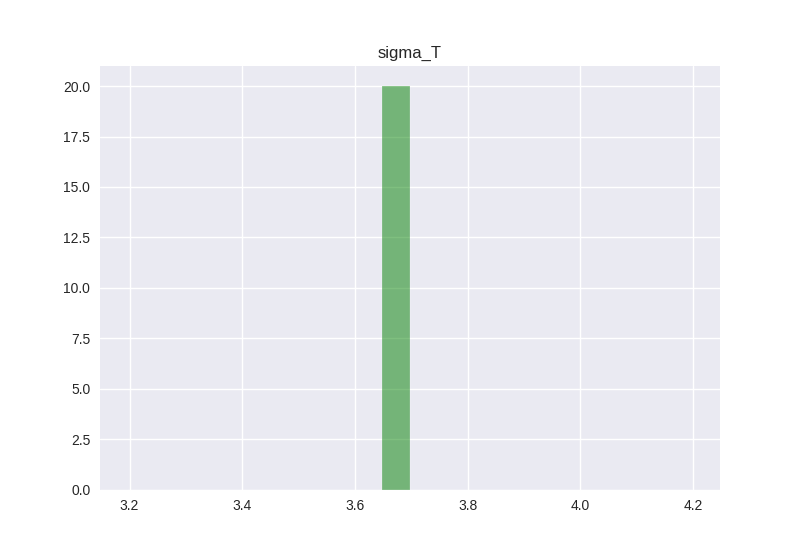
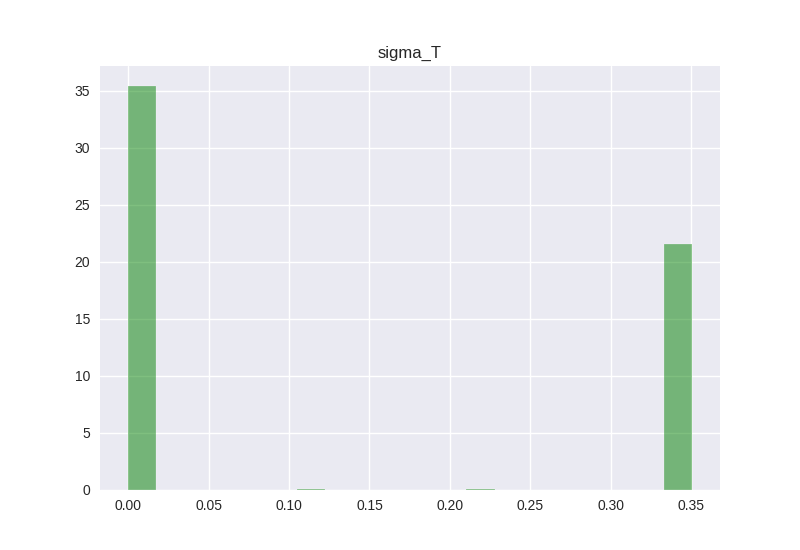
Fixed errors

diff --git a/fortran/coupled_model.py b/fortran/coupled_model.py
@@ -58,28 +58,28 @@ class CoupledModel:
 		#self.mod_time = np.array(forcing['year'])
 		#self.forcingtotal = np.array(forcing_total.forcing_total(forcing=forcing, alpha_doeclim=self.asc, l_project=False, begyear=self.mod_time[0], endyear=np.max(self.mod_time)))
 
-		self.alpha = parameter('alpha')
-		self.alpha.value = values[self.alpha.name]
-		self.Teq = parameter('Teq')
-		self.Teq.value = values[self.Teq.name]
-		self.S0 = parameter('S0')
-		self.S0.value = values[self.S0.name]
-		self.rho = parameter('rho')
-		self.rho.value = values[self.rho.name]
-		self.sigma_ar = parameter('sigma_ar')
-		self.sigma_ar.value = values[self.sigma_ar.name]
-		self.climate_sensitivity = parameter('climate_sensitivity')
-		self.climate_sensitivity.value = values[self.climate_sensitivity.name]
-		self.ocean_vertical_diffusivity = parameter('ocean_vertical_diffusivity')
-		self.ocean_vertical_diffusivity.value = values[self.ocean_vertical_diffusivity.name]
-		self.aerosol_scaling = parameter('aerosol_scaling')
-		self.aerosol_scaling.value = values[self.aerosol_scaling.name]
-		self.T_0 = parameter('T_0')
-		self.T_0.value = values[self.T_0.name]
-		self.sigma_T = parameter('sigma_T')
-		self.sigma_T.value = values[self.sigma_T.name]
-		self.rho_T = parameter('rho_T')
-		self.rho_T.value = values[self.rho_T.name]
+		#self.alpha = parameter('alpha')
+		self.alpha = values[0]
+		#self.Teq = parameter('Teq')
+		self.Teq = values[1]
+		#self.S0 = parameter('S0')
+		self.S0 = values[2]
+		#self.rho = parameter('rho')
+		self.rho = values[3]
+		#self.sigma_ar = parameter('sigma_ar')
+		self.sigma_ar = values[4]
+		#self.climate_sensitivity = parameter('climate_sensitivity')
+		self.climate_sensitivity = values[5]
+		#self.ocean_vertical_diffusivity = parameter('ocean_vertical_diffusivity')
+		self.ocean_vertical_diffusivity = values[6]
+		#self.aerosol_scaling = parameter('aerosol_scaling')
+		self.aerosol_scaling = values[7]
+		#self.T_0 = parameter('T_0')
+		self.T_0 = values[8]
+		#self.sigma_T = parameter('sigma_T')
+		self.sigma_T = values[9]
+		#self.rho_T = parameter('rho_T')
+		self.rho_T = values[10]
 		self.values = values
 		self.stepsizes = {'alpha': .01, 'Teq': .05, 'S0': 5, 'rho': .001, 'sigma_ar': .1, 'climate_sensitivity': 0.16, 'ocean_vertical_diffusivity': 0.17, 'aerosol_scaling': 0.025, 'T_0': 0.03, 'sigma_T': 5e-4, 'rho_T': 0.007}
 		
@@ -100,17 +100,17 @@ class CoupledModel:
 		alpha, Teq, S0, rho, sigma_ar = (
 			theta[0], theta[1], theta[2], theta[3], theta[4])
 		log_prior = 0
-		if (self.alpha.value): log_prior += stats.uniform.logpdf(alpha, loc = 0, scale = 5) #lb and ub?
-		if (self.Teq.value): log_prior +=  stats.uniform.logpdf(Teq, loc=-3, scale = 4)
-		if (self.S0.value): log_prior +=  stats.norm.logpdf(S0, loc = self.sealevel[0], scale = self.sealevel_sigma[0])
-		if (self.rho.value): log_prior +=  stats.uniform.logpdf(rho, loc = 0, scale = 1)
-		if (self.sigma_ar.value): log_prior +=  stats.uniform.logpdf(sigma_ar, loc = 0, scale = 5)
-		if (self.climate_sensitivity.value): log_prior +=  stats.uniform.logpdf(theta[5], loc = 0.1, scale = 9.9)
-		if (self.ocean_vertical_diffusivity.value): log_prior +=  stats.uniform.logpdf(theta[6], loc = 0.1, scale = 3.9)
-		if (self.aerosol_scaling.value): log_prior +=  stats.uniform.logpdf(theta[7], loc = 0, scale = 2)
-		if (self.T_0.value): log_prior +=  stats.uniform.logpdf(theta[8], loc = -0.3, scale = 0.6)
-		if (self.sigma_T.value): log_prior +=  stats.uniform.logpdf(theta[9], loc = 0.05, scale = 5.05)
-		if (self.rho_T.value): log_prior +=  stats.uniform.logpdf(theta[10], loc =  0.0001, scale = 0.999)
+		if (self.alpha): log_prior += stats.uniform.logpdf(alpha, loc = 0, scale = 5) #lb and ub?
+		if (self.Teq): log_prior +=  stats.uniform.logpdf(Teq, loc=-3, scale = 4)
+		if (self.S0): log_prior +=  stats.norm.logpdf(S0, loc = self.sealevel[0], scale = self.sealevel_sigma[0])
+		if (self.rho): log_prior +=  stats.uniform.logpdf(rho, loc = 0, scale = 1)
+		if (self.sigma_ar): log_prior +=  stats.uniform.logpdf(sigma_ar, loc = 0, scale = 5)
+		if (self.climate_sensitivity): log_prior +=  stats.uniform.logpdf(theta[5], loc = 0.1, scale = 9.9)
+		if (self.ocean_vertical_diffusivity): log_prior +=  stats.uniform.logpdf(theta[6], loc = 0.1, scale = 3.9)
+		if (self.aerosol_scaling): log_prior +=  stats.uniform.logpdf(theta[7], loc = 0, scale = 2)
+		if (self.T_0): log_prior +=  stats.uniform.logpdf(theta[8], loc = -0.3, scale = 0.6)
+		if (self.sigma_T): log_prior +=  stats.uniform.logpdf(theta[9], loc = 0.05, scale = 5.05)
+		if (self.rho_T): log_prior +=  stats.uniform.logpdf(theta[10], loc =  0.0001, scale = 0.999)
 		#print(log_prior)
 		return log_prior
 
@@ -131,24 +131,24 @@ class CoupledModel:
 		resid = np.array([self.sealevel[i] - model[i] for i in range(len(model))])
 
 		sigma_obs = np.diag([i**2 for i in self.sealevel_sigma])
-		sigma_ar1 = self.build_ar1(rho, sigma_ar, N) if self.sigma_ar.value else []
+		sigma_ar1 = self.build_ar1(rho, sigma_ar, N) if self.sigma_ar else []
 
 		t_residual = self.dfTemperature - temperatures
 
-		sigma_ar1_T = self.build_ar1(theta[10], theta[9], N) if self.sigma_T.value else []
+		sigma_ar1_T = self.build_ar1(theta[10], theta[9], N) if self.sigma_T else []
 		sigma_ar1_T = np.multiply((np.transpose(sigma_ar1_T) + sigma_ar1_T), 1/2)
 		log_prior = self.prior(theta)
 		if np.isinf(log_prior): return -np.inf
 		
-		#cov = np.add(sigma_obs,sigma_ar1)
-		#cov = np.multiply((np.transpose(cov) + cov), 1/2)
-		cov = sigma_obs
+		cov = np.add(sigma_obs,sigma_ar1)
+		cov = np.multiply((np.transpose(cov) + cov), 1/2)
+		#cov = sigma_obs
 		log_likelihood = stats.multivariate_normal.logpdf(resid, mean = None, cov=cov)
 		
 		cov_T = np.multiply((np.transpose(sigma_ar1_T) + sigma_ar1_T), 1/2)
 
-		#log_likelihood_T = stats.multivariate_normal.logpdf(t_residual, mean=None, cov=cov_T)
-		log_posterior = log_likelihood + log_prior #+ log_likelihood_T
+		log_likelihood_T = stats.multivariate_normal.logpdf(t_residual, mean=None, cov=cov_T)
+		log_posterior = log_likelihood + log_prior + log_likelihood_T
 		return log_posterior
 
 	def update_mean(self, m, X):
@@ -172,23 +172,18 @@ class CoupledModel:
 		return 0.5*(cov + np.transpose(cov)), m1
 	
 	def chain(self, deltat, N=10000):
-		print(self.sealevel_sigma)
-		parameters = self.values.values()
-		parameters = list(filter(lambda a: a != 0, parameters))
-		self.num = len(parameters)
-		theta = parameters
+		theta = np.array(self.values)
 		print('Initial estimate for parameters -', theta)
 		temp_out, heatflux_mixed_out, heatflux_interior_out, gmsl_out = \
 		doeclim_gmsl(asc = theta[7], t2co_in = theta[5], kappa_in=theta[6], alphasl_in = theta[0], Teq = theta[1], SL0 = theta[2]) 
-		temp_out += self.T_0.value
+		temp_out += self.T_0
 
 		lp = self.logp(theta, deltat, temp_out, gmsl_out)
 		theta_best = theta
 		lp_max = lp
-		theta_new = [0.] * len(parameters)
+		theta_new = [0.] * len(theta)
 		accepts = 0
-		mcmc_chains = np.zeros((N, (len(parameters))))
-		step = []
+		mcmc_chains = np.zeros((N, (len(theta))))
 		step_values = list(self.stepsizes.values())
 		step = np.diag(step_values)
 		sd = 2.38**2 / len(theta)
@@ -198,17 +193,17 @@ class CoupledModel:
 		#Check if converged. If not keep running. 
 		print(N)
 		for i in (range(N)):
-			if i > 500: step = self.update_cov(mcmc_chains[:i], sd, len(parameters))
+			if i > 500: step = self.update_cov(mcmc_chains[:i], sd, len(theta))
 			theta_new = list(np.random.multivariate_normal(theta, step))
 			temp_out, heatflux_mixed_out, heatflux_interior_out, gmsl_out = \
 			doeclim_gmsl(asc = theta[7], t2co_in = theta[5], kappa_in=theta[6], alphasl_in = theta[0], Teq = theta[1], SL0 = theta[2]) 
 			temp_out += theta[8]
 			lp_new = self.logp(theta_new, deltat, temp_out, gmsl_out)
-			if np.isinf(lp_new): continue
+			if np.isinf(lp_new): 
+				continue
 			lq = lp_new - lp
 			
 			lr = np.log(np.random.uniform(0, 1))
-			print(lq)
 			#print(lr, lq)
 			if (lr < lq):
 				theta = theta_new
@@ -222,9 +217,11 @@ class CoupledModel:
 
 		return mcmc_chains,accepts/N*100
 
-values = {'alpha': 3.4, 'Teq': -0.5, 'S0': -100, 'rho': .5, \
-'sigma_ar': 3, 'climate_sensitivity': 3.1, 'ocean_vertical_diffusivity': 3.5, \
-'aerosol_scaling': 1.1, 'T_0': -0.06, 'sigma_T': 0.1, 'rho_T': 0.55}
+#values = {'alpha': 3.4, 'Teq': -0.5, 'S0': -100, 'rho': .5, \
+#'sigma_ar': 3, 'climate_sensitivity': 3.1, 'ocean_vertical_diffusivity': 3.5, \
+#'aerosol_scaling': 1.1, 'T_0': -0.06, 'sigma_T': 0.1, 'rho_T': 0.55}
+
+values = [3.4, -0.5, -100, .5, 3, 3.1, 3.5, 1.1, -0.06, 0.1, 0.55]
 
 CM = CoupledModel(values)
 
@@ -232,16 +229,16 @@ mcmc_chain,accept_rate = CM.chain(1, NUMBER)
 
 pamnames = ['alpha', 'Teq', 'S0', 'rho', 'sigma_ar', 'climate_sensitivity', 'ocean_vertical_diffusivity', 'aerosol_scaling', 'T_0', 'sigma_T', 'rho_T']
 
-for i in range(CM.num):
+for i in range(11):
 	fig, ax = plt.subplots(nrows=1, ncols=1 )  # create figure & 1 axis
-	ax.plot(mcmc_chain[int(NUMBER/2): ,i])
+	ax.plot(mcmc_chain[: ,i])
 	ax.set_title(pamnames[i])
 	fig.savefig('image/plot'+str(i+1)+'.png')   # save the figure to file
 	plt.close(fig)
 
-for i in range(CM.num):
+for i in range(11):
 	fig, ax = plt.subplots(nrows=1, ncols=1 )  # create figure & 1 axis
-	ax.hist(mcmc_chain[int(NUMBER/2): ,i], density = True, facecolor='green', alpha=0.5, bins = 20, edgecolor = 'white')
+	ax.hist(mcmc_chain[: ,i], density = True, facecolor='green', alpha=0.5, bins = 20, edgecolor = 'white')
 	ax.set_title(pamnames[i])
 	fig.savefig('image/hist'+str(i+1)+'.png')   # save the figure to file
 	plt.close(fig)
